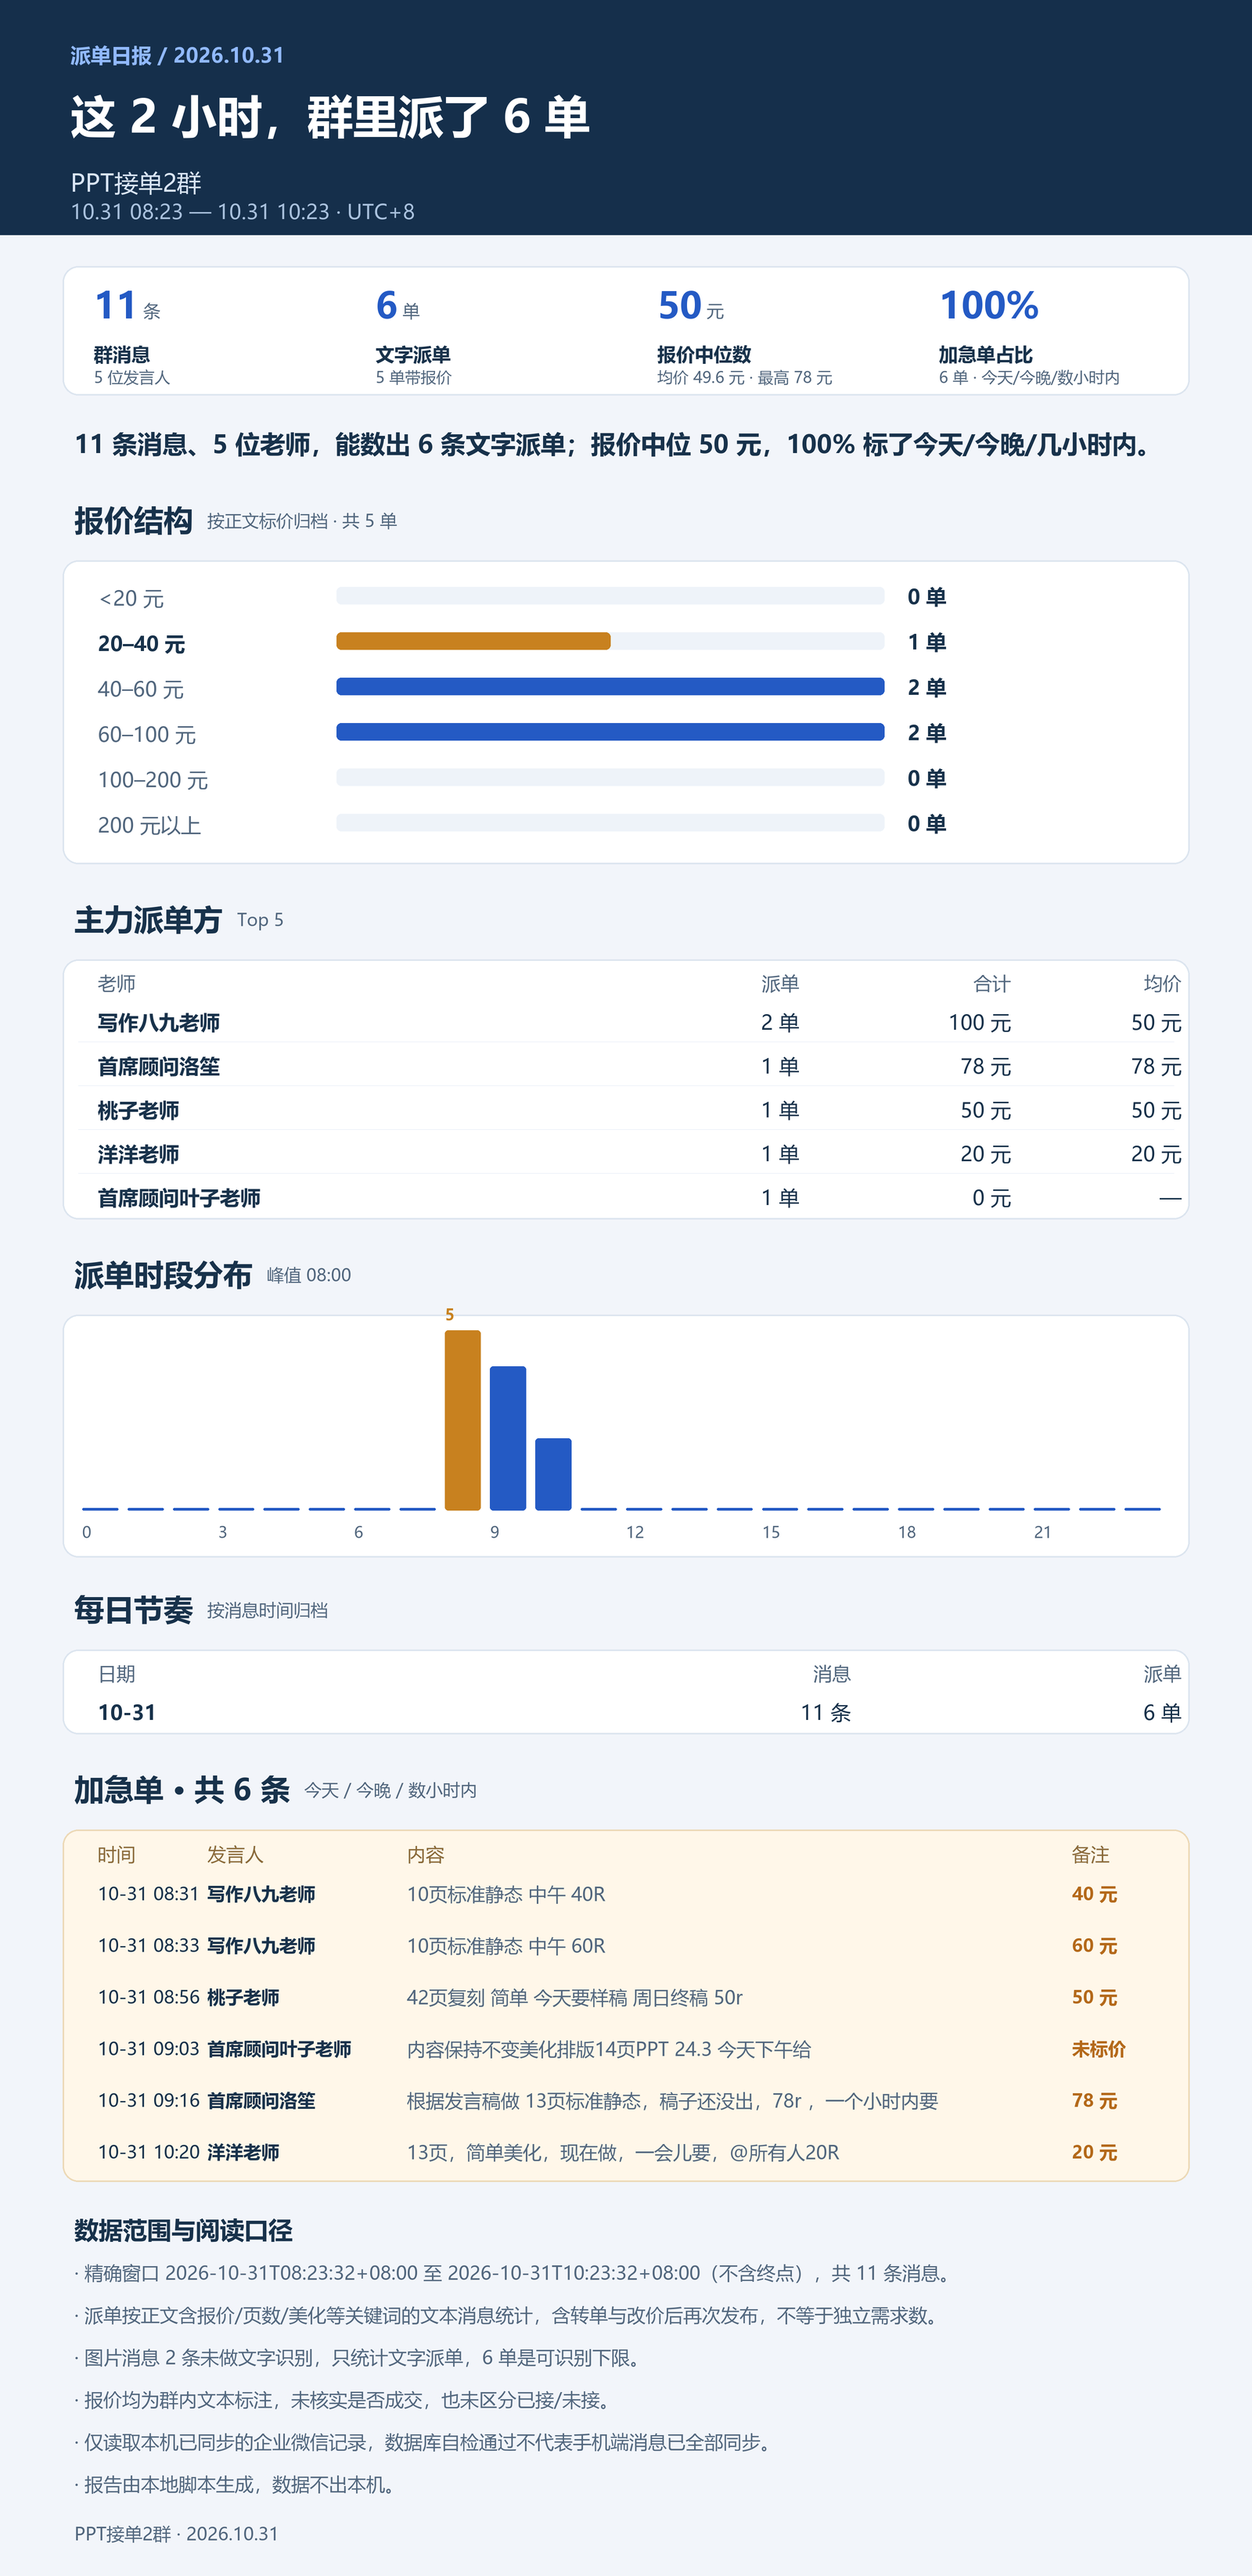
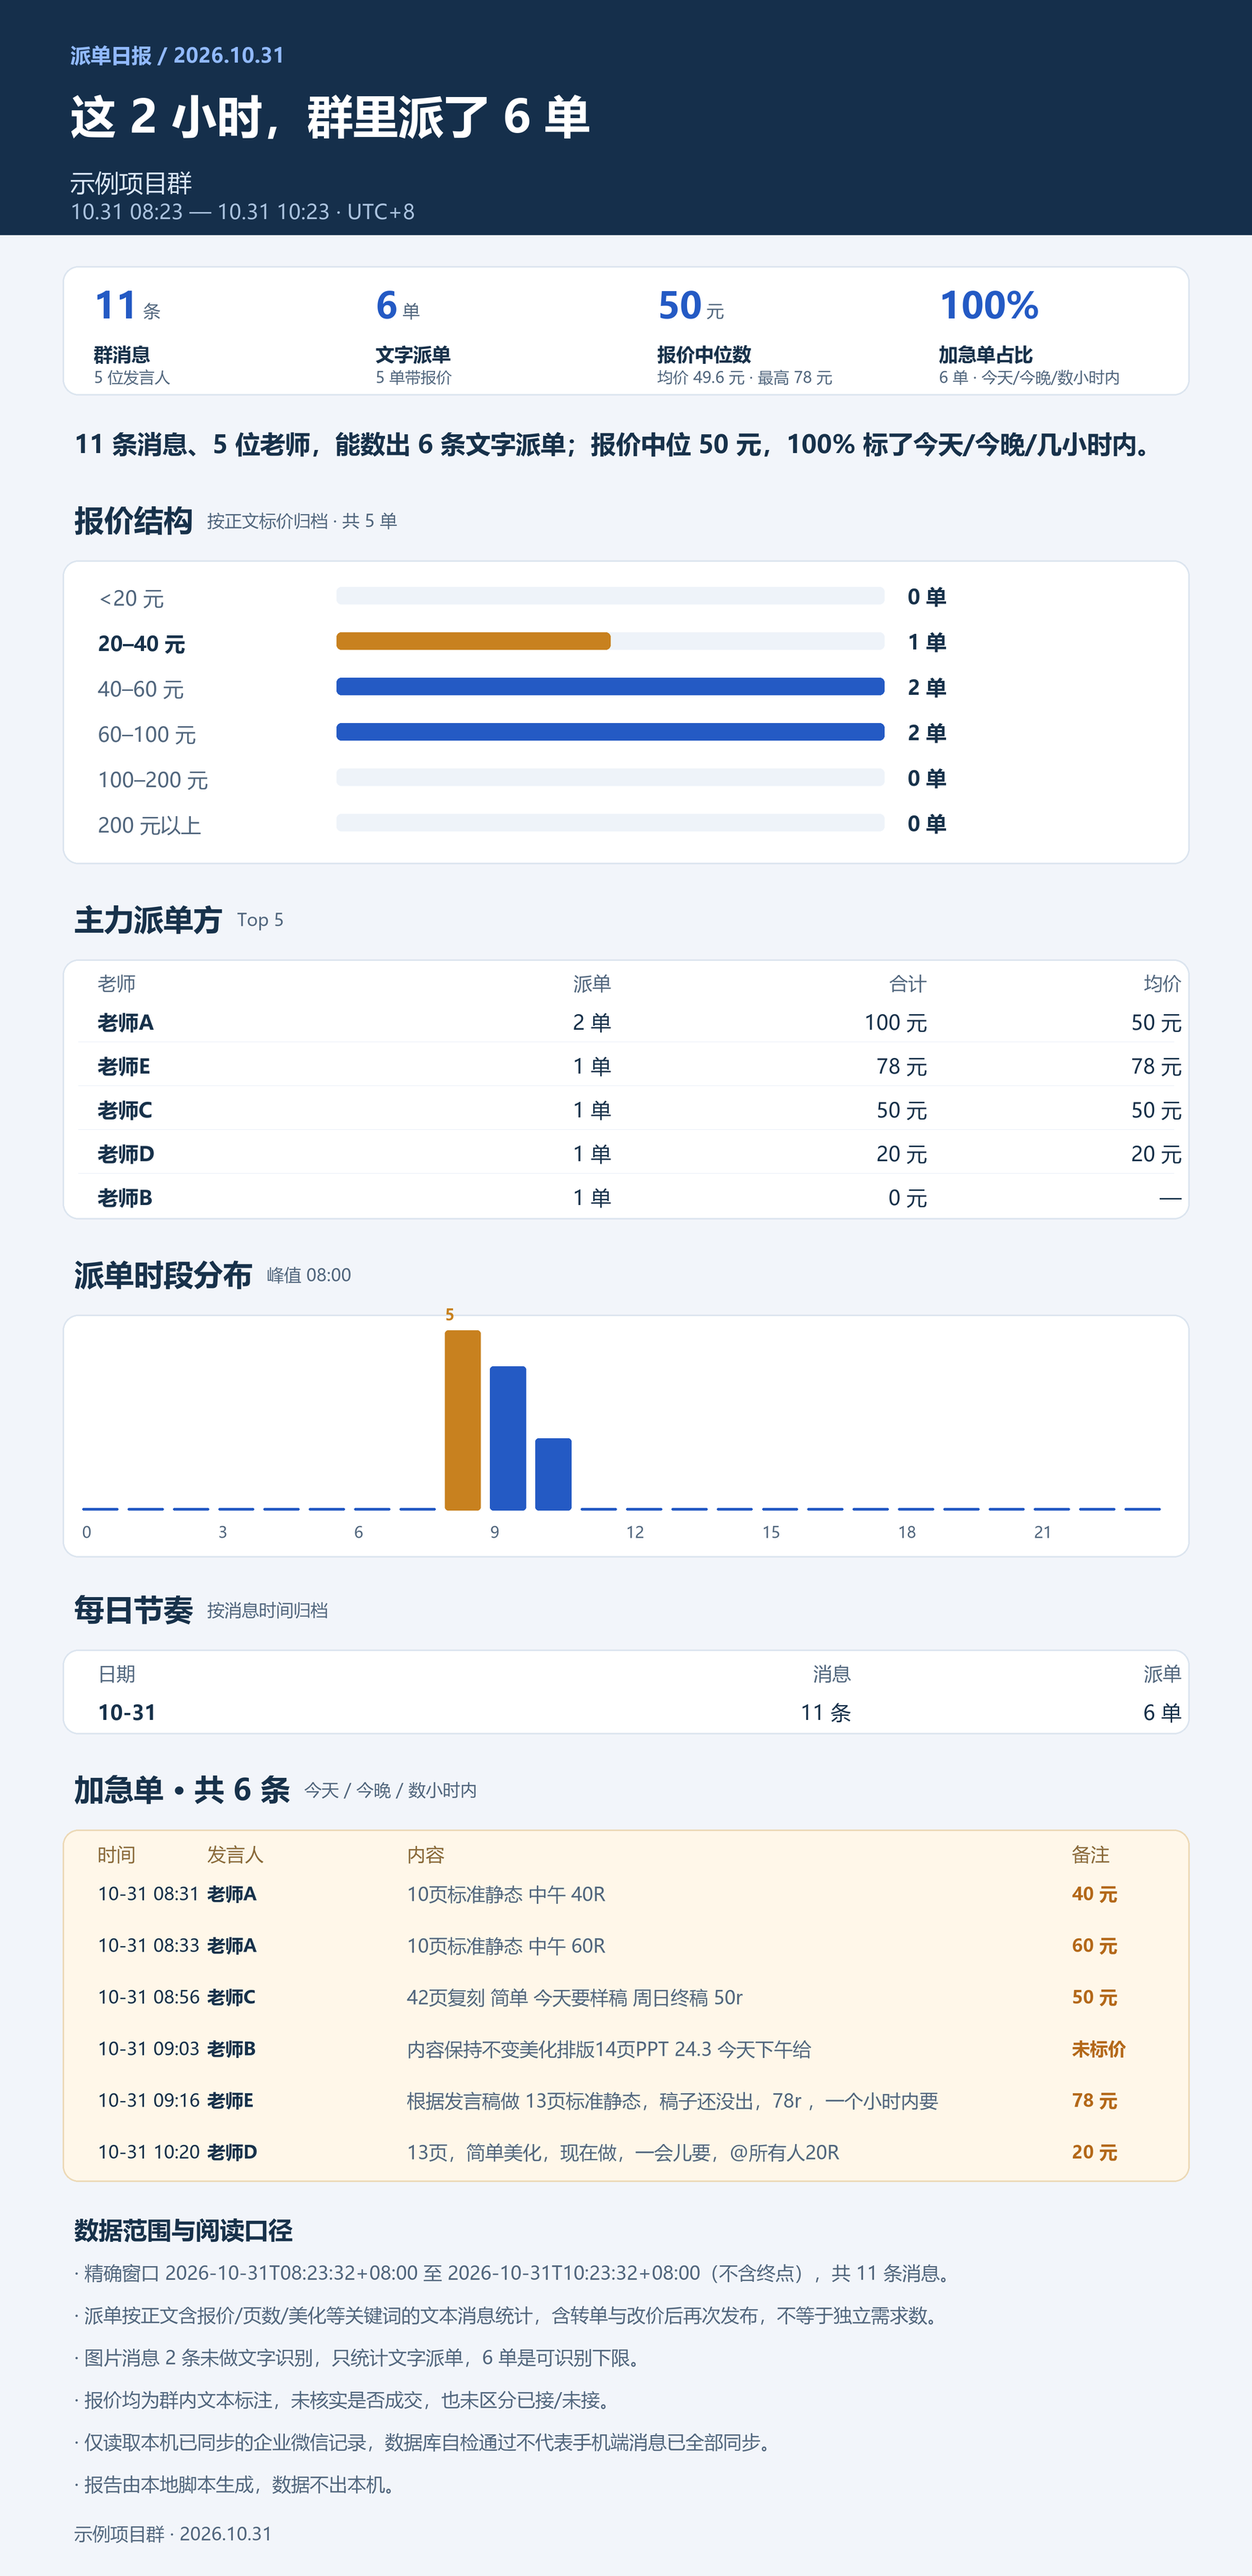
feat: anonymize script + anonymized demo images

diff --git a/README.md b/README.md
@@ -59,6 +59,18 @@ python wechat-group-report/scripts/setup_env.py       # 个人微信版
 
 详细用法、参数说明见各目录内的 `SKILL.md` 与 `README.md`。
 
+## 对外分享前请脱敏
+
+报告默认包含成员真实昵称。两个 Skill 都自带脱敏脚本，分享报告图 / 演示数据前先跑一遍：
+
+```bash
+python scripts/anonymize_report.py --run-dir <报告目录> --prefix 老师 --group 示例项目群
+```
+
+- 成员按发言量自动编号为 `老师A / 老师B / …`（括号里的角色备注保留，数据不失真）
+- 消息正文里被提到的名字一并替换，映射表写入 `alias_map.json` 供复查
+- 产物输出到 `<报告目录>-anon/`，用其中的数据重新渲染即为脱敏版报告
+
 ## 目录结构
 
 ```
